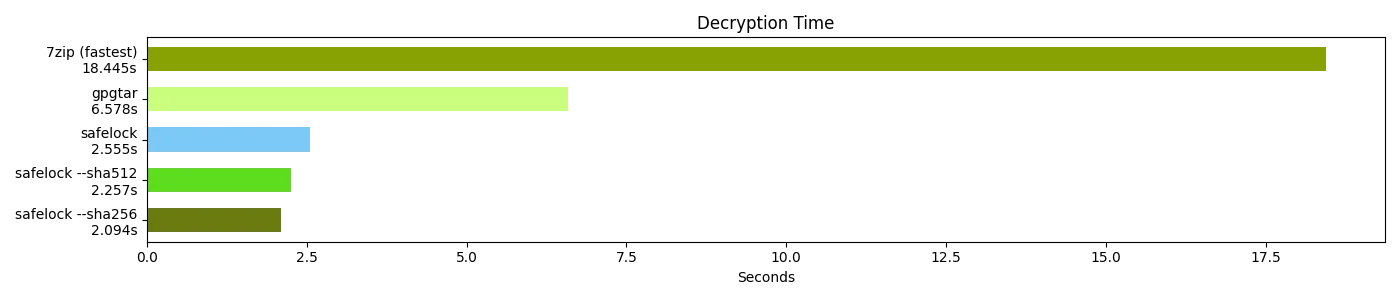
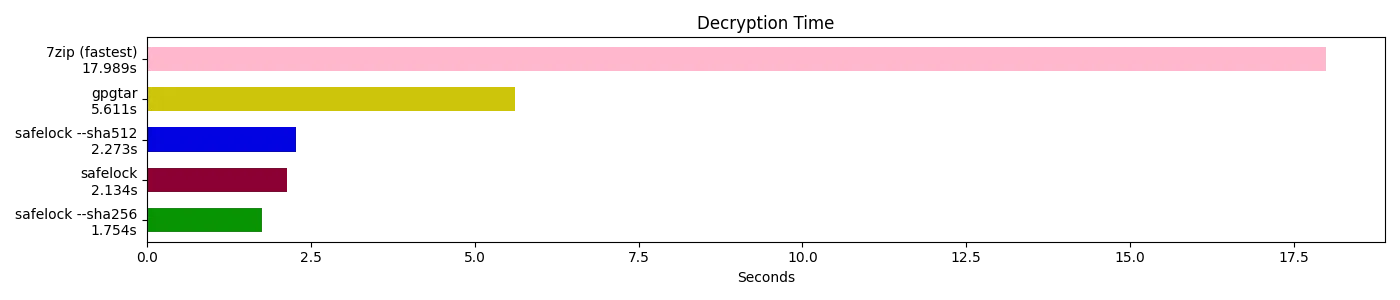
chore: update benchmark results and readme

diff --git a/benchmark/bench_and_plot.py b/benchmark/bench_and_plot.py
@@ -8,7 +8,7 @@ from matplotlib.colors import XKCD_COLORS as plot_colors
 safelock_cmd = "safelock-cli"
 pwd = "123456789"
 rest = "60s"
-input_path = "~/Videos"
+input_path = "Videos"
 output_name = "test"
 output_dir = "safelock_dump"
 runs = 3

diff --git a/README.md b/README.md
@@ -50,7 +50,7 @@ You can find interactive examples of using it as a package to [encrypt](https://
 
 ### Performance
 
-With the default settings the encryption should be about **19.5** times faster than `gpgtar` and **10.1** times faster than `7zip` 
+With the default settings the encryption should be about **18.5** times faster than `gpgtar` and **8.8** times faster than `7zip` 
 
 > [!NOTE]
 > You can reproduce the results by running [bench_and_plot.py](benchmark/bench_and_plot.py) (based on [Matplotlib](https://github.com/matplotlib/matplotlib) and [Hyperfine](https://github.com/sharkdp/hyperfine))
